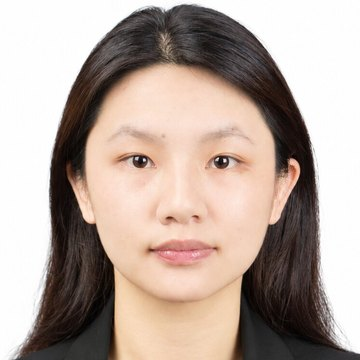
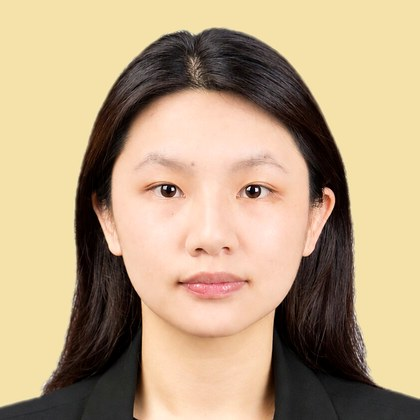
Tighten About copy, add Dean's Special Award, fix school dates, retouch portrait
Claude-Session: https://claude.ai/code/session_01NZztSUk32msTSG5pYbqZHi

diff --git a/index.html b/index.html
@@ -895,21 +895,20 @@ function renderAbout() {
         <div class="where">Kuching, Sarawak, Malaysia</div>
       </div>
     </div>
-    <p>I'm a computer science graduate of Universiti Malaysia Sabah who loves the whole journey of making something: shaping the idea, designing how it looks and feels, and building it until it works. Whether it's a predictive model, a client website or a small game, I care about craft and about the people who will use it.</p>
-    <p>What drives me is creating data-driven solutions that make a real difference, for businesses, communities and the world around us. Along the way I've built a churn prediction model and researched graph analytics at Maxis, studied a semester abroad in Indonesia, and designed and developed websites for small businesses.</p>
+    <p>I'm a computer science graduate of Universiti Malaysia Sabah who enjoys every stage of making something, from shaping the idea and designing the experience to building it until it works. What drives me is creating data-driven solutions that make a real difference, whether that's a churn model at Maxis or a website for a small business.</p>
     <div class="stats">
       <div class="stat"><b>3.85</b><span>CGPA out of 4.00</span></div>
-      <div class="stat"><b>Every sem</b><span>Dean's List, UMS</span></div>
+      <div class="stat"><b>Every sem</b><span>Dean's List, plus Anugerah Khas Dekan</span></div>
       <div class="stat"><b>1 of 21</b><span>Maxis Women in Tech scholars, 2022</span></div>
       <div class="stat"><b>7.5</b><span>IELTS band score, CEFR C1 English</span></div>
     </div>
     <div>
       <div class="sec-label">Education</div>
       <div class="grid2">
-        <div class="box"><span class="when">Oct 2022 – Nov 2026</span><h3>Universiti Malaysia Sabah</h3><p>Bachelor of Computer Science, Data Science. CGPA 3.85.</p></div>
+        <div class="box"><span class="when">Oct 2022 – Nov 2026</span><h3>Universiti Malaysia Sabah</h3><p>Bachelor of Computer Science, Data Science. CGPA 3.85. Dean's List every semester and recipient of the Anugerah Khas Dekan (Dean's Special Award).</p></div>
         <div class="box"><span class="when">Sep – Dec 2025</span><h3>Universitas Diponegoro</h3><p>Semester abroad, Informatika (DEEP exchange), Semarang, Indonesia.</p></div>
-        <div class="box"><span class="when">2022</span><h3>St. Thomas' Secondary School</h3><p>STPM, Science &amp; Mathematics. CGPA 3.59.</p></div>
-        <div class="box"><span class="when">2020</span><h3>Kuching High School</h3><p>SPM, Science stream. 9As.</p></div>
+        <div class="box"><span class="when">2020 – 2022</span><h3>St. Thomas' Secondary School</h3><p>STPM, Science &amp; Mathematics. CGPA 3.59.</p></div>
+        <div class="box"><span class="when">2015 – 2019</span><h3>Kuching High School</h3><p>SPM, Science stream. 9As.</p></div>
       </div>
     </div>
     <div>
